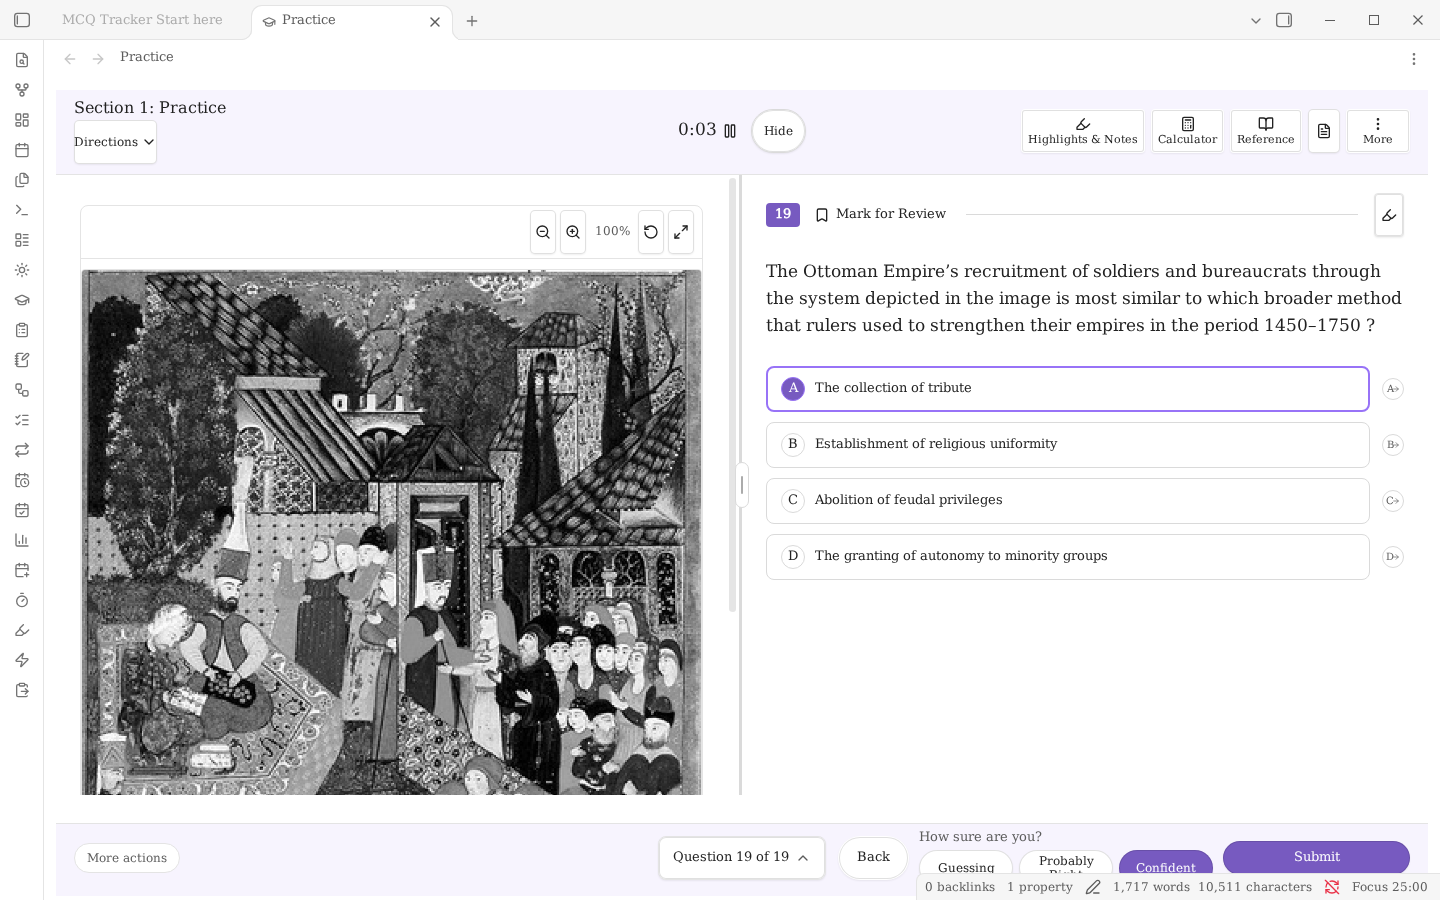
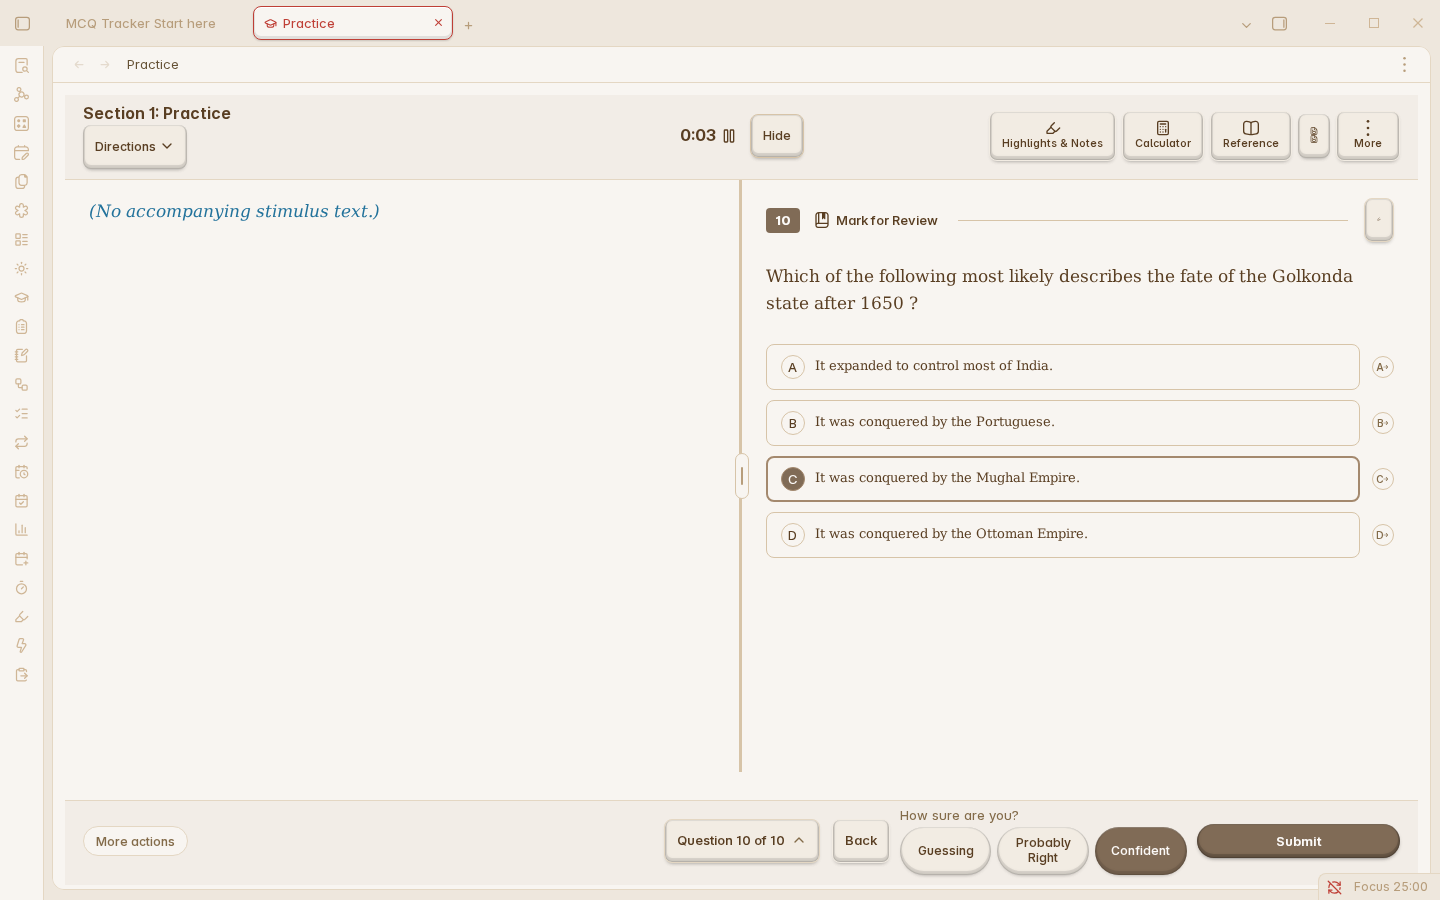
Recapture Practice demo in the Primary community theme

diff --git a/README.md b/README.md
@@ -8,7 +8,7 @@ MCQ Tracker is the question-first study plugin for Obsidian. Turn notes and PDFs
 
 <img src="docs/images/practice-view-demo.gif" alt="Ten real Obsidian Practice screenshots answering AP World History questions, each with the correct choice selected and Confident set." width="1440">
 
-Practice demo: ten real Obsidian screenshots (app 1.15.1, 1440×900, Default theme in light mode, both sidebars hidden) stepping through AP World History questions in the full-width left/right split, each with the correct answer selected and **Confident** set before **Submit**. The passage or stimulus image sits on the left and the question on the right, exactly as it does in the plugin. The full-size PNGs are in [`docs/images/practice-run/`](docs/images/practice-run).
+Practice demo: ten real Obsidian screenshots (app 1.15.1, 1440×900, the [Primary](https://github.com/primary-theme/obsidian) community theme, both sidebars hidden) stepping through AP World History questions in the full-width left/right split, each with the correct answer selected and **Confident** set before **Submit**. The passage or stimulus image sits on the left and the question on the right, exactly as it does in the plugin. The full-size PNGs are in [`docs/images/practice-run/`](docs/images/practice-run).
 
 ## Where to start
 
